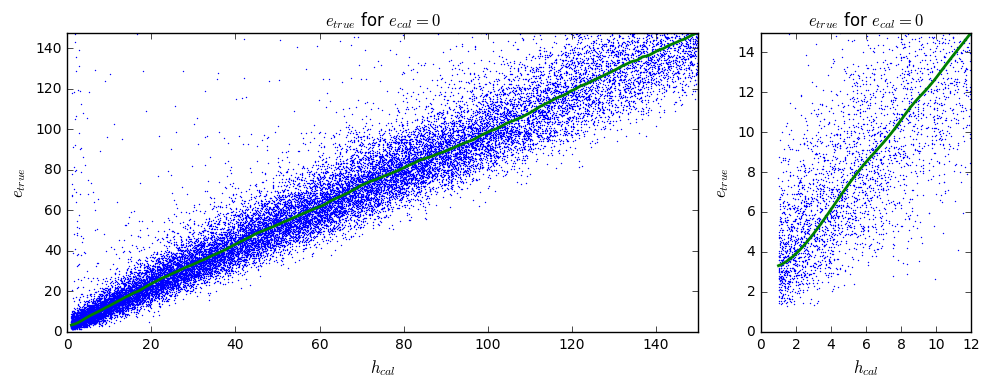
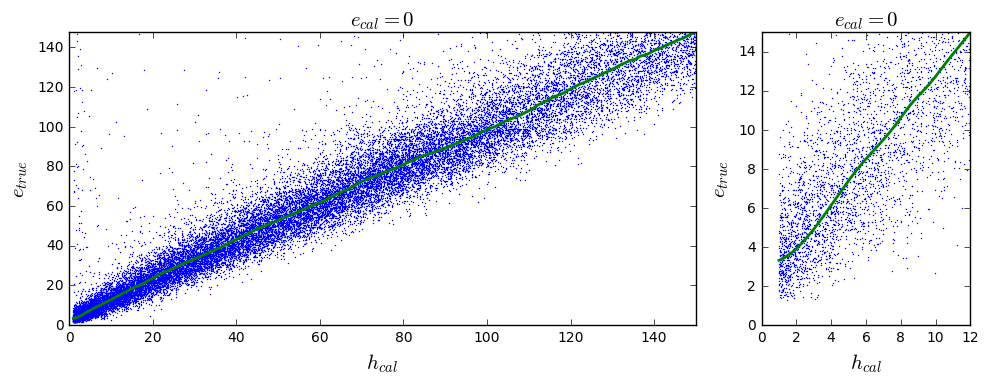
usualplots.py

diff --git a/test_KNNGF.py b/test_KNNGF.py
@@ -57,7 +57,7 @@ savefig(fig,directory,classname+"_ecalib_over_etrue.png")
 savefig(fig,'img_index/',classname+"_ecalib_over_etrue.png")
 
 #histogram of ecalib and etrue
-fig = plt.figure(figsize=(10,8))
+fig = plt.figure(figsize=(10,6))
 usplt.hist_ecalib(KNNGF,data2)
 plt.show()
 savefig(fig,directory,classname+"_histograms_ecalib_etrue.png")
